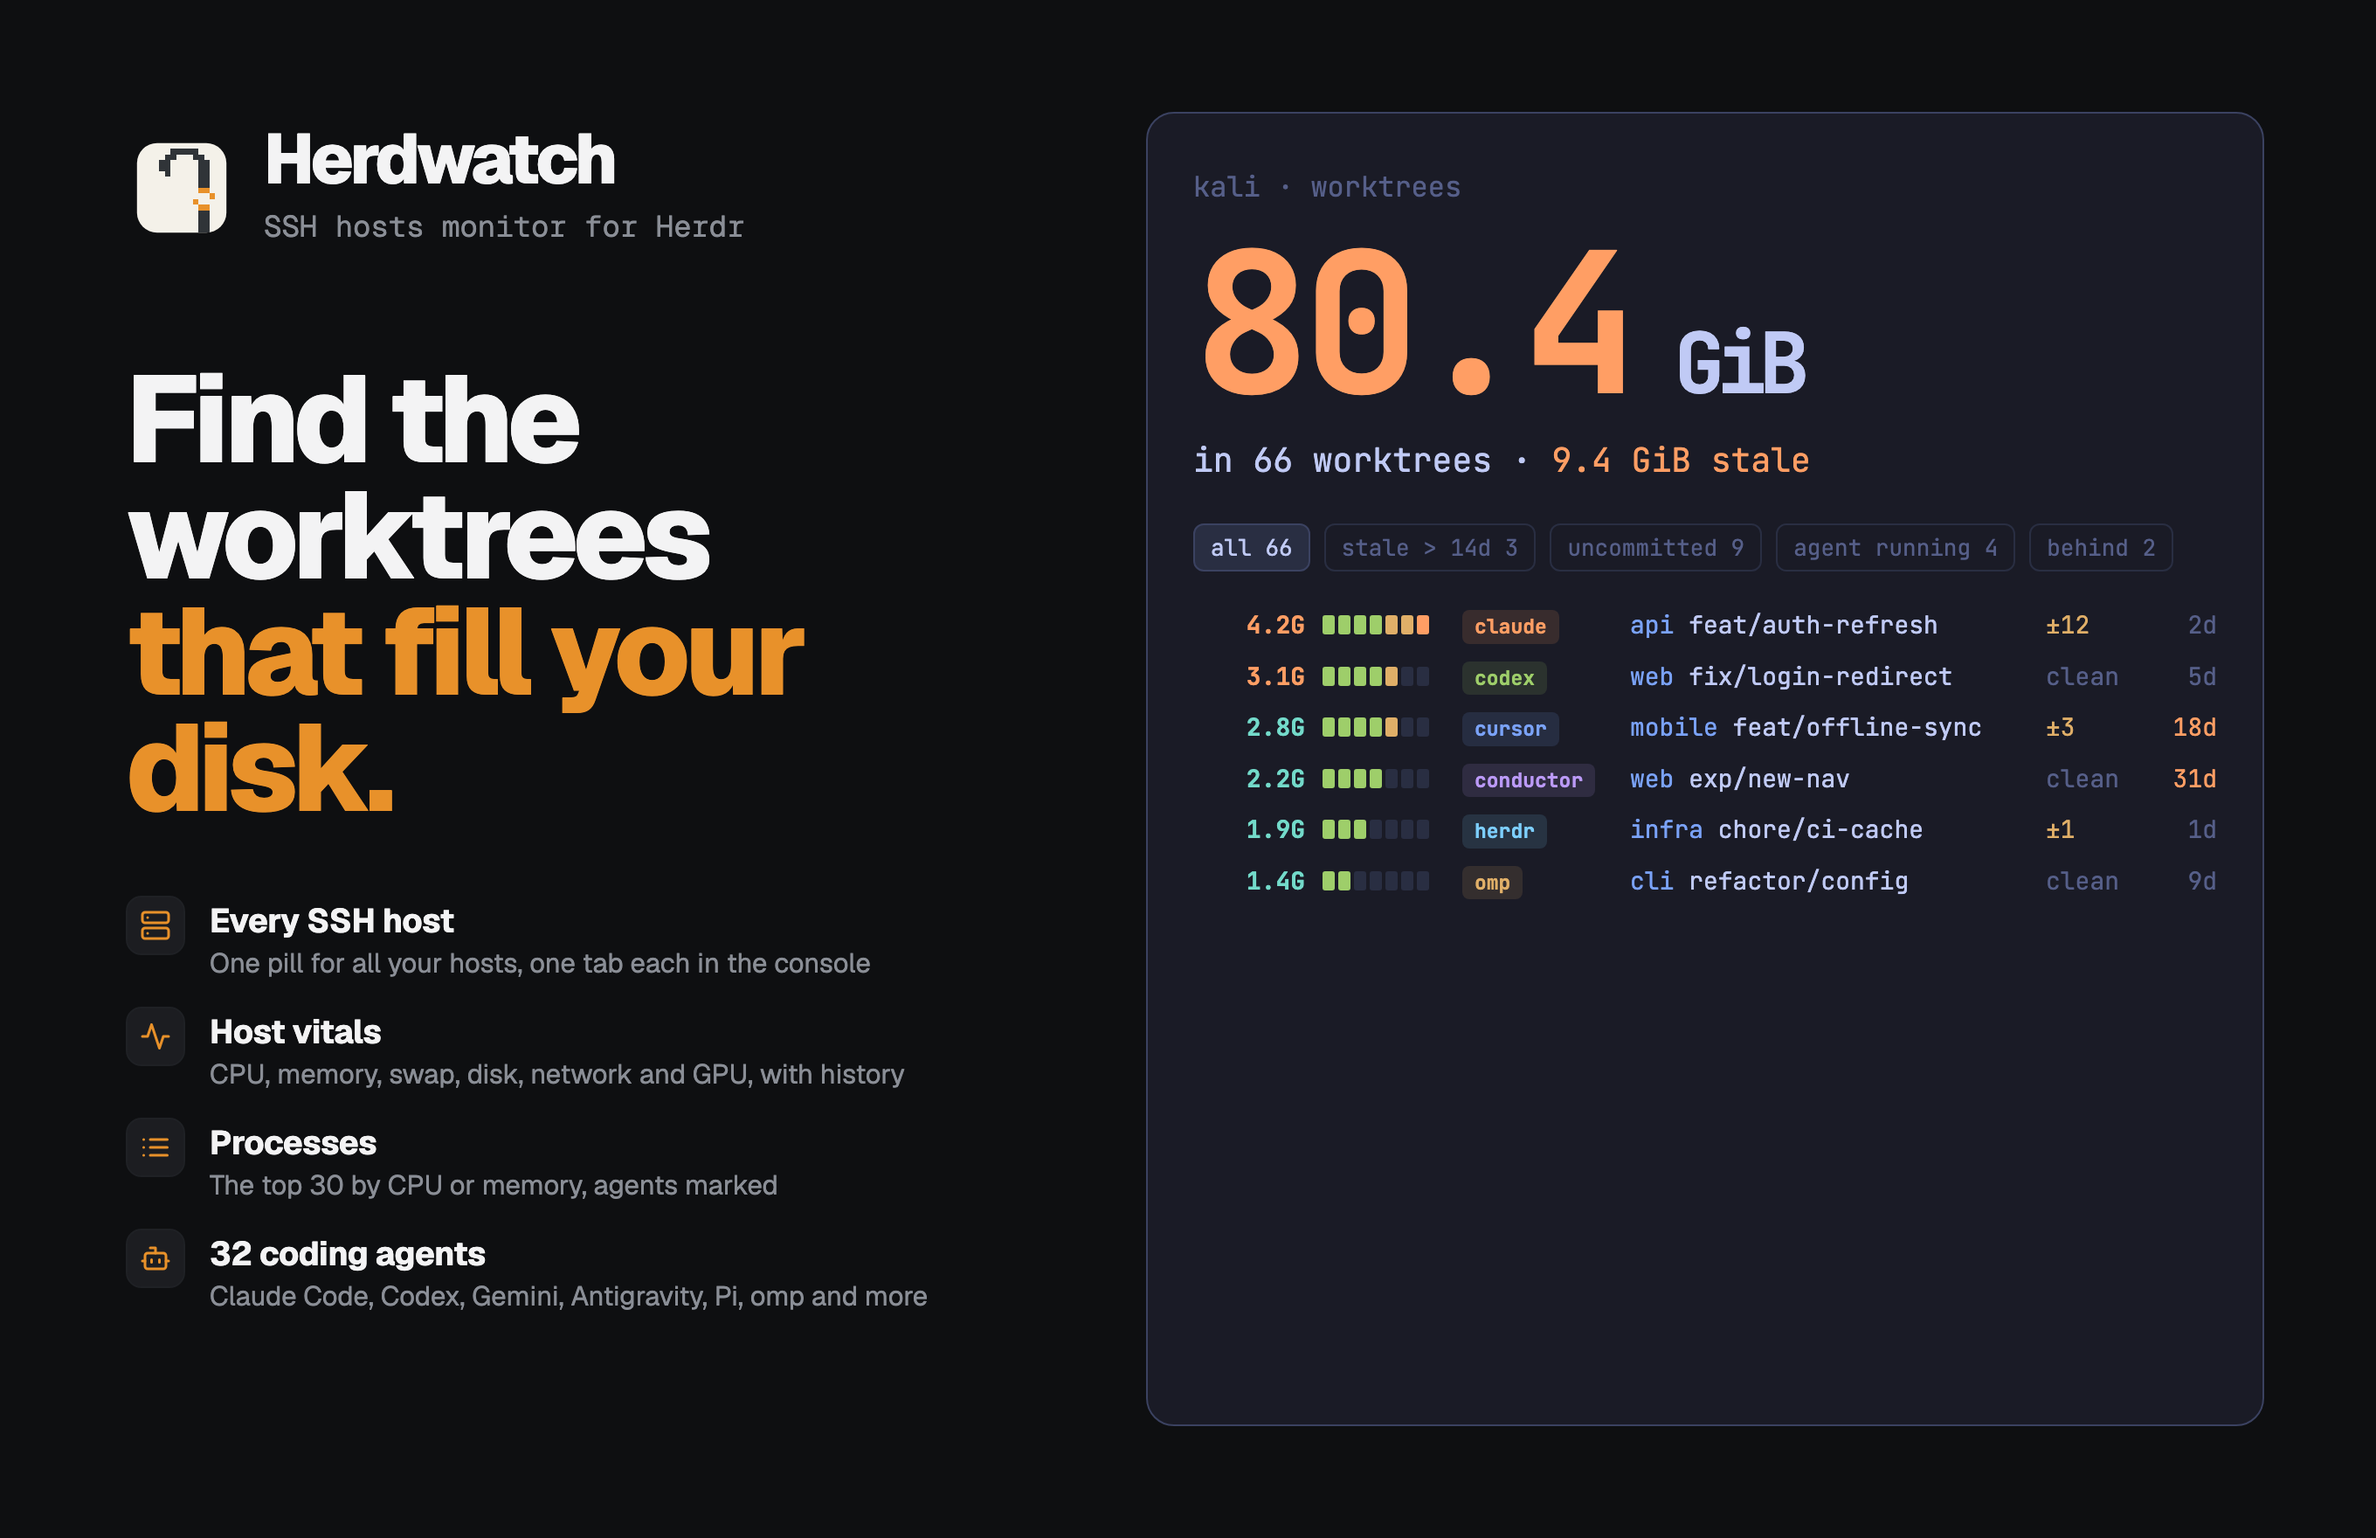
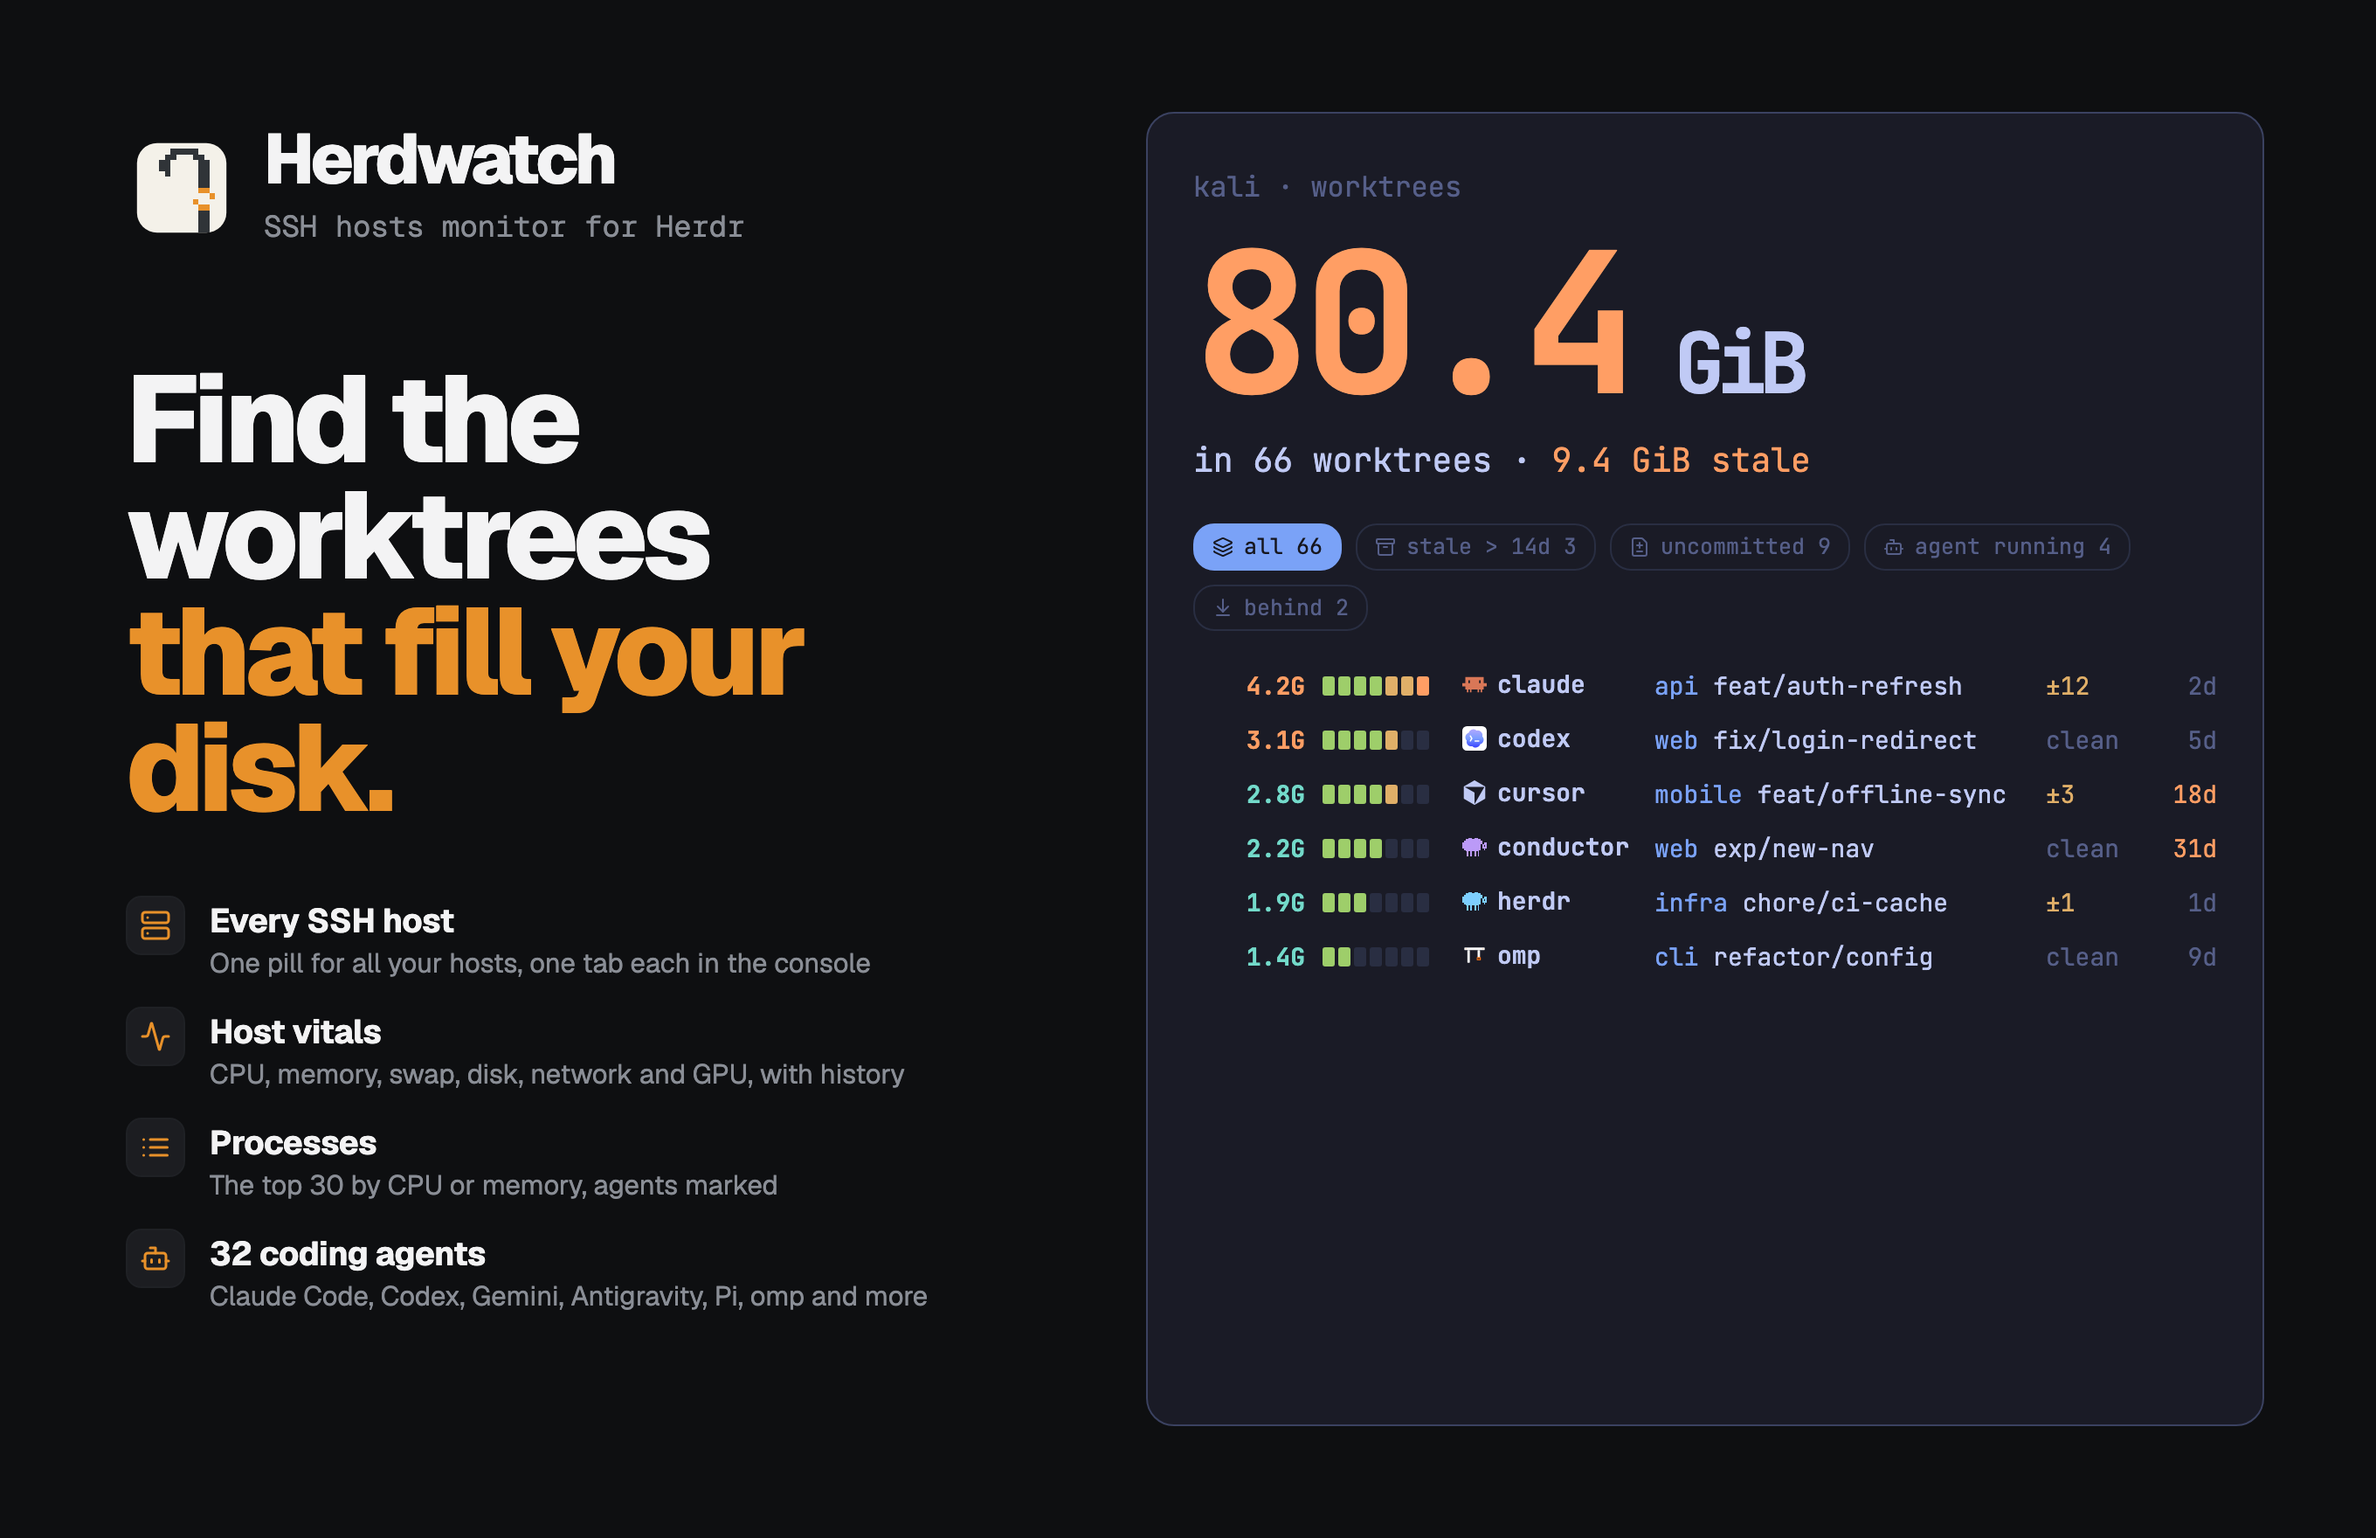
docs: show the current UI in the covers and tighten the description
- preview.png, cover-fleet.png and cover-disk-hunter.png now show the
  agent marks and the navigation glyphs of the current console; the
  preview adds a worktrees box with the git and agent marks.
- RECIPE.md: the gallery paragraph says the problem first, in short
  sentences, and keeps the search phrases within 500 characters.
- README.md: the intro is three short paragraphs: the problem, what
  Herdwatch shows, and that hosts need no install.

Changed region(s): [[0.5, 0.3125, 0.9062, 0.625], [0.9062, 0.4688, 0.9375, 0.5938]]

diff --git a/RECIPE.md b/RECIPE.md
@@ -1,6 +1,6 @@
 # Herdwatch - SSH server monitor for coding agents
 
-A btop and htop style system monitor for remote servers, VPS and homelab machines where AI agents like Claude Code and Codex run. A pill in the tab row shows each host's CPU; a click or `cmd-shift-m` opens a Tokyo Night dashboard: CPU, memory (RAM), swap, disk, network and GPU charts, per-core load, agent sessions and their state, listening ports, git worktree disk usage, top processes and hot host alerts. A multi-host SSH monitor and resource monitor, with nothing to install on the server.
+Your coding agents run on remote servers, and you cannot see what they do there. Herdwatch shows every SSH host inside Herdr. A pill in the tab row shows each host's CPU. A click opens a btop-style system monitor: CPU, memory, disk, network and GPU history, top processes, the Claude Code, Codex and other agents that run and which ones need you, the ports they leave open, and the git worktrees that fill the disk. For any server, VPS or homelab. Nothing to install on the server.
 
 ![Herdwatch - SSH server monitor for coding agents](preview.png)
 

diff --git a/README.md b/README.md
@@ -2,9 +2,13 @@
 
 # Herdwatch
 
-An SSH hosts monitor for [Herdr](https://herdr.dev). It shows the CPU, memory, disk, worktrees, processes and coding agents of every machine your agents run on, without leaving Herdr.
+Your coding agents run on remote machines. From Herdr you cannot see if a host is out of memory, which agent waits for you, which dev server still holds a port, or how much disk the old worktrees take.
 
-Herdwatch is a Herdr.app mod: JavaScript for the panel, Bash and POSIX `sh` for the polling. It needs no daemon on your hosts and nothing to install on them. It uses `ssh` and the tools that are already there.
+Herdwatch shows all of this for every SSH host, in one console inside [Herdr](https://herdr.dev). A pill in the tab row gives the CPU of each host at a glance.
+
+Your hosts need no daemon and no install. Herdwatch uses `ssh` and the tools that are already there.
+
+It is a Herdr.app mod: JavaScript for the panel, Bash and POSIX `sh` for the polling.
 
 ## Install
 
